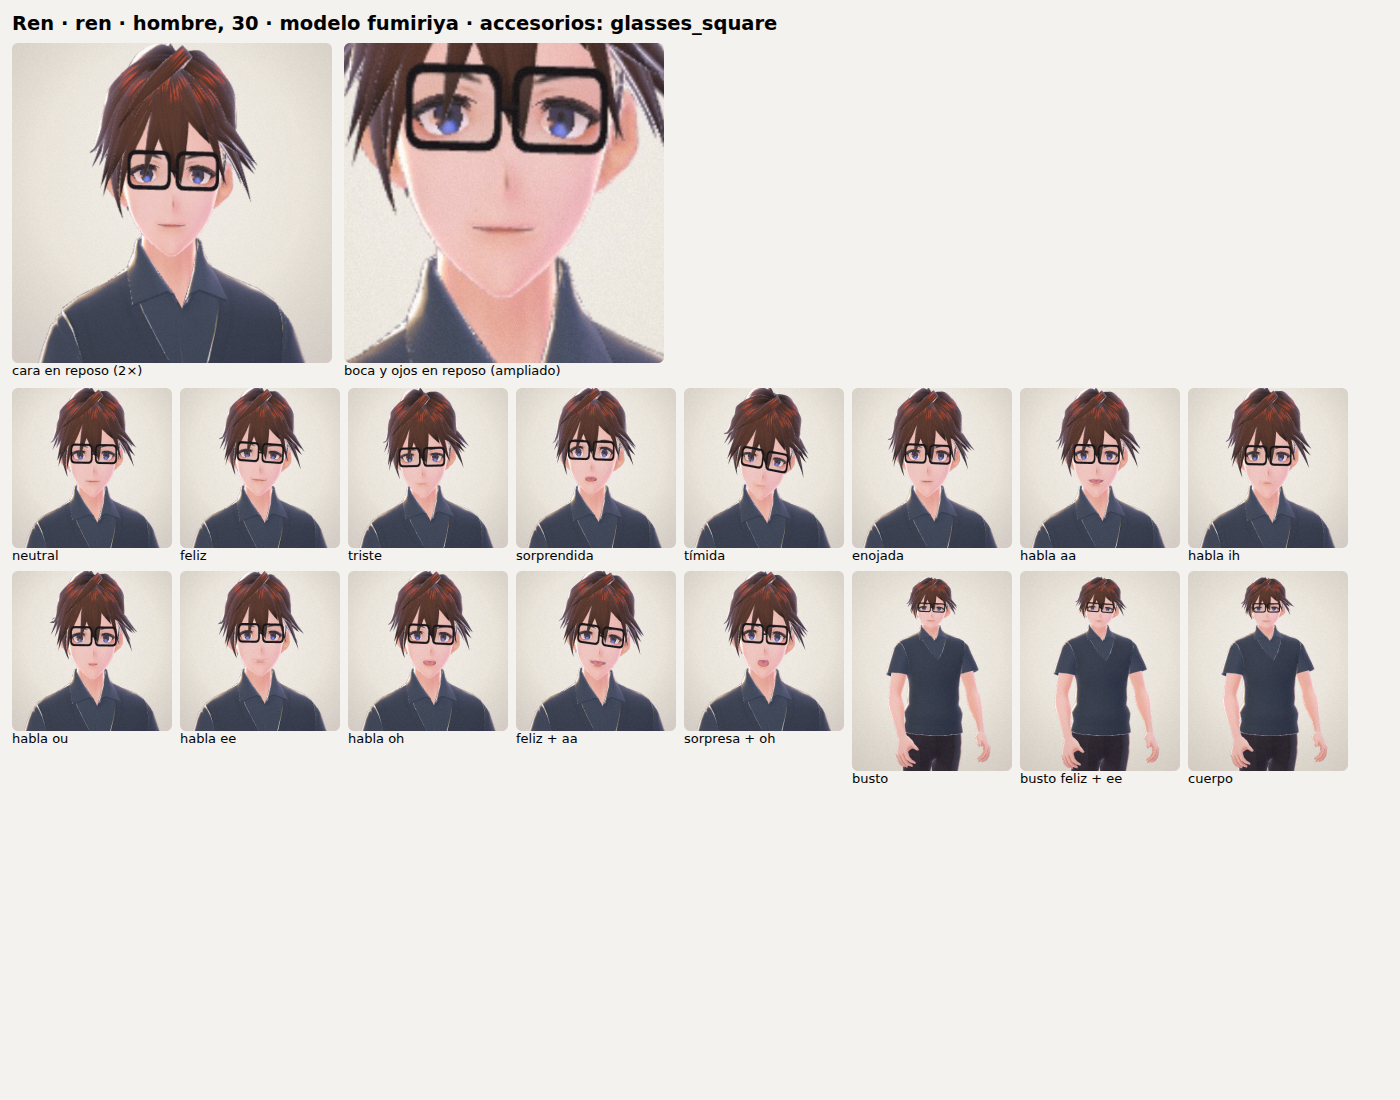
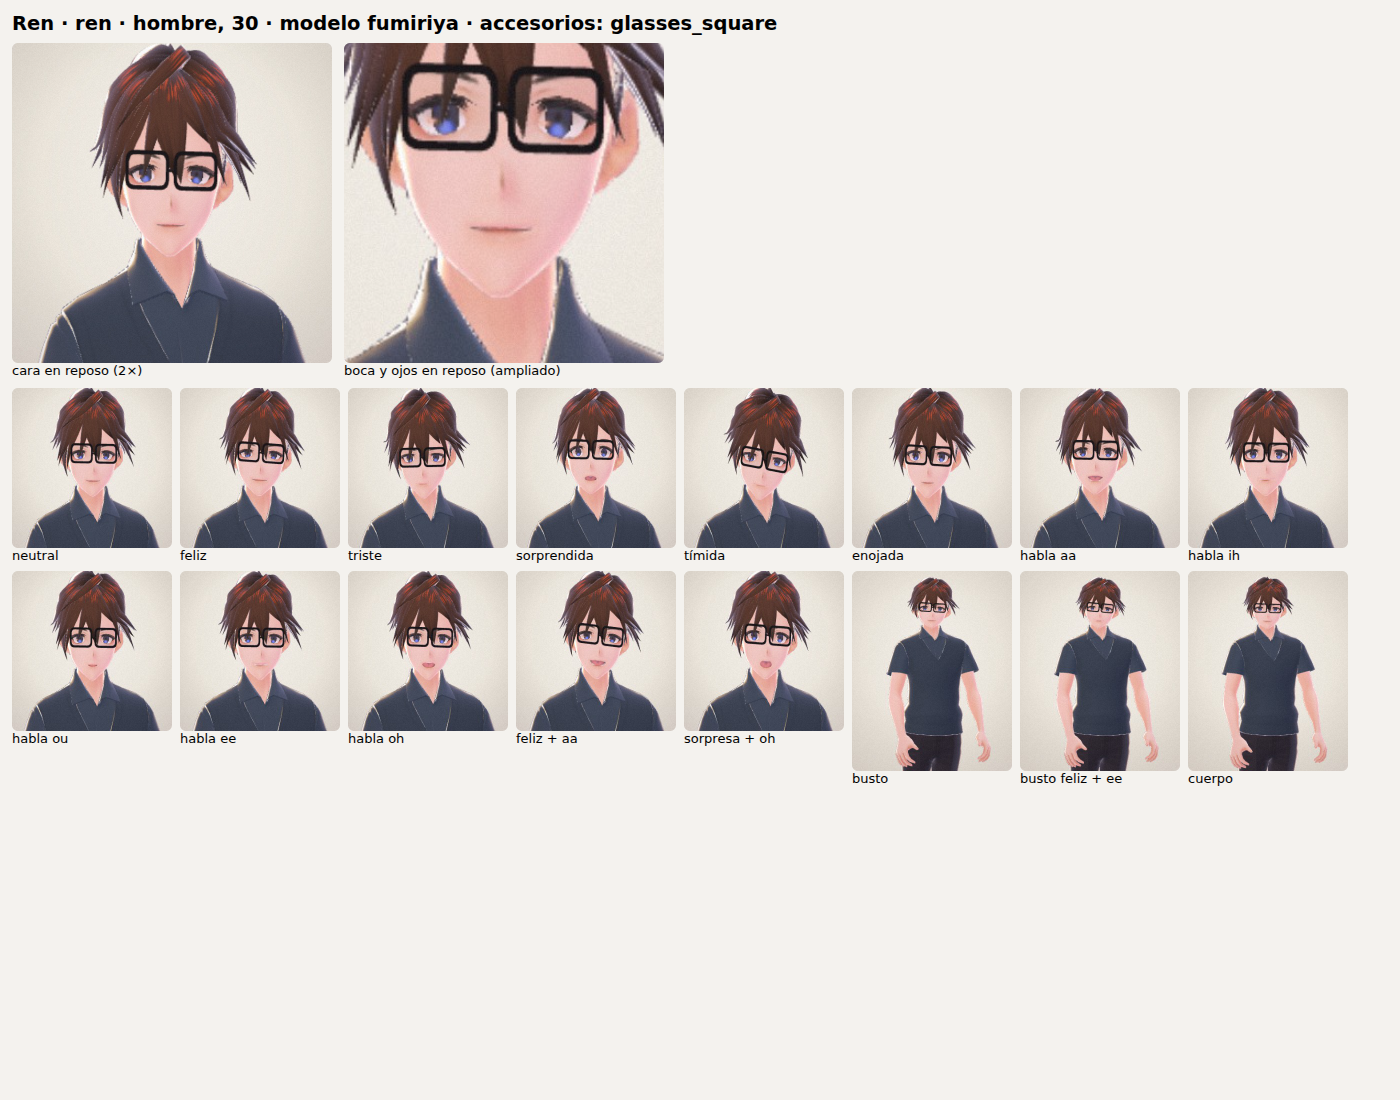
WP-10: rangos jóvenes diferenciados, barba en mandíbula, habla por edad más concreta; QA aprobada
Revisión independiente final: 12/12 personajes aprobados (boca cerrada en reposo, ojos y
edad). 18–22 con iris y cabeza algo mayores, 23–27 con párpado y sombreado leves; sombra
de barba neutra a lo largo de la mandíbula; prompt por edad con rasgos concretos (ritmo,
vocabulario, referencias vividas), una sola fuente en el servidor.

Claude-Session: https://claude.ai/code/session_0188cjAJLeq8GTW6oDs1W4kc

diff --git a/src/lib/character/ageRanges.ts b/src/lib/character/ageRanges.ts
@@ -9,6 +9,8 @@ import type { CharacterLook } from './types';
  *
  * El rostro lo dibuja el escenario 3D (avatar-stage/stage.html, AGE_FACE) a partir de
  * `look.age`: párpado, iris, ojos "naturales", tamaño de cabeza y sombreado de la cara.
+ * La forma de hablar por rango está en el prompt del servidor
+ * (supabase/functions/_shared/systemPrompts.tsx, ageSpeech) y la voz automática en pickVoice.
  */
 export type AgeRangeId = '18-22' | '23-27' | '28-34' | '35+';
 
@@ -35,8 +37,6 @@ export interface AgeRange {
   makeup: { blushMax: number; lip: string | null; eyeshadow: string | null };
   /** Voces adecuadas (ids de VOICES); la primera es la automática. */
   voices: { female: string[]; male: string[] };
-  /** Cómo habla (va al prompt del personaje). */
-  speech: string;
 }
 
 const V = {
@@ -69,14 +69,13 @@ export const AGE_RANGES: AgeRange[] = [
     label: { es: '18–22 años', en: '18–22' },
     short: '18–22',
     typical: 21,
-    face: { lid: 0, iris: 1, head: 1.02, contour: 0 },
+    face: { lid: 0, iris: 1.03, head: 1.03, contour: 0 },
     bodiesDenied: [],
     hairDenied: [],
     accessoriesDenied: [],
     plainOutfit: false,
     makeup: { blushMax: 1, lip: null, eyeshadow: null },
     voices: { female: [V.sarah, V.laura, V.jessica, V.lily], male: [V.liam, V.chris, V.will, V.eric] },
-    speech: 'Hablas como alguien de entre 18 y 22 años: fresco y espontáneo, con expresiones actuales, pero sin sonar infantil.',
   },
   {
     id: '23-27',
@@ -85,14 +84,13 @@ export const AGE_RANGES: AgeRange[] = [
     label: { es: '23–27 años', en: '23–27' },
     short: '23–27',
     typical: 25,
-    face: { lid: 0.07, iris: 0.97, head: 1, contour: 0 },
+    face: { lid: 0.1, iris: 0.95, head: 1, contour: 0.25 },
     bodiesDenied: [],
     hairDenied: [],
     accessoriesDenied: [],
     plainOutfit: false,
     makeup: { blushMax: 0.5, lip: null, eyeshadow: null },
     voices: { female: [V.sarah, V.jessica, V.alice, V.laura, V.lily], male: [V.liam, V.will, V.eric, V.chris, V.callum] },
-    speech: 'Hablas como alguien de entre 23 y 27 años: natural y seguro, cercano, con algo de humor.',
   },
   {
     id: '28-34',
@@ -109,7 +107,6 @@ export const AGE_RANGES: AgeRange[] = [
     plainOutfit: true,
     makeup: { blushMax: 0.2, lip: '#B0646C', eyeshadow: '#B79A9A' },
     voices: { female: [V.alice, V.lily, V.matilda, V.jessica], male: [V.eric, V.callum, V.brian, V.george, V.will] },
-    speech: 'Hablas como alguien de entre 28 y 34 años: con aplomo y las cosas claras, menos jerga, una calidez más asentada.',
   },
   {
     id: '35+',
@@ -127,7 +124,6 @@ export const AGE_RANGES: AgeRange[] = [
     plainOutfit: true,
     makeup: { blushMax: 0.1, lip: '#A0525E', eyeshadow: '#A88A8C' },
     voices: { female: [V.matilda, V.alice, V.lily], male: [V.brian, V.george, V.daniel, V.callum] },
-    speech: 'Hablas como alguien de 35 años o más: maduro y sereno, con experiencia de vida; vocabulario cuidado y nada de jerga juvenil.',
   },
 ];
 

diff --git a/avatar-stage/stage.html b/avatar-stage/stage.html
@@ -401,7 +401,7 @@ function cleanMouth(g, W, H) {
  * fondo transparente; cada mitad se encoge alrededor de su propio centro.
  */
 function shrinkEyes(k) {
-  if (k >= 0.999) return null;
+  if (Math.abs(k - 1) < 0.001) return null;
   return (g, W, H) => {
     const copy = document.createElement('canvas'); copy.width = W; copy.height = H;
     copy.getContext('2d').drawImage(g.canvas, 0, 0);
@@ -440,8 +440,9 @@ function paintFace(look) {
     if (contour) for (const cx of [0.25, 0.75]) soft(cx, 0.72, 0.075, 0.11, '#B88270', 0.3 * contour, 'multiply');
     // hombres de 35+: sombra de barba muy leve en barbilla y mandíbula
     if (ageFace(look).stubble && MALE_BODIES.has(look.model)) {
-      soft(0.5, 0.81, 0.1, 0.045, '#8C8496', 0.32, 'multiply');
-      for (const cx of [0.36, 0.64]) soft(cx, 0.76, 0.06, 0.06, '#8C8496', 0.22, 'multiply');
+      // a lo largo de la mandíbula, no alrededor de la boca; tono gris neutro (no verdoso)
+      for (const cx of [0.3, 0.7]) soft(cx, 0.8, 0.075, 0.05, '#9A9090', 0.22, 'multiply');
+      soft(0.5, 0.855, 0.09, 0.03, '#9A9090', 0.24, 'multiply');
     }
     if (look.eyeshadow) for (const cx of [0.352, 0.662]) soft(cx, 0.527, 0.09, 0.045, look.eyeshadow, 0.85, 'multiply');
     if (blush) for (const cx of [0.315, 0.688]) soft(cx, 0.655, 0.075, 0.045, '#F07C98', 0.5 * blush);
@@ -823,8 +824,8 @@ async function load(look, base) {
  * pequeños (el iris grande es lo que más aniña una cara anime).
  */
 const AGE_FACE = {
-  '18-22': { lid: 0, natural: 0, head: 1.02, contour: 0, iris: 1, stubble: 0 },
-  '23-27': { lid: 0.07, natural: 0.15, head: 1, contour: 0, iris: 0.97, stubble: 0 },
+  '18-22': { lid: 0, natural: 0, head: 1.03, contour: 0, iris: 1.03, stubble: 0 },
+  '23-27': { lid: 0.1, natural: 0.25, head: 1, contour: 0.25, iris: 0.95, stubble: 0 },
   '28-34': { lid: 0.2, natural: 0.55, head: 0.96, contour: 0.55, iris: 0.9, stubble: 0 },
   '35+': { lid: 0.36, natural: 1, head: 0.93, contour: 1, iris: 0.86, stubble: 1 },
 };

diff --git a/src/lib/avatarStageHtml.ts b/src/lib/avatarStageHtml.ts
@@ -402,7 +402,7 @@ function cleanMouth(g, W, H) {
  * fondo transparente; cada mitad se encoge alrededor de su propio centro.
  */
 function shrinkEyes(k) {
-  if (k >= 0.999) return null;
+  if (Math.abs(k - 1) < 0.001) return null;
   return (g, W, H) => {
     const copy = document.createElement('canvas'); copy.width = W; copy.height = H;
     copy.getContext('2d').drawImage(g.canvas, 0, 0);
@@ -441,8 +441,9 @@ function paintFace(look) {
     if (contour) for (const cx of [0.25, 0.75]) soft(cx, 0.72, 0.075, 0.11, '#B88270', 0.3 * contour, 'multiply');
     // hombres de 35+: sombra de barba muy leve en barbilla y mandíbula
     if (ageFace(look).stubble && MALE_BODIES.has(look.model)) {
-      soft(0.5, 0.81, 0.1, 0.045, '#8C8496', 0.32, 'multiply');
-      for (const cx of [0.36, 0.64]) soft(cx, 0.76, 0.06, 0.06, '#8C8496', 0.22, 'multiply');
+      // a lo largo de la mandíbula, no alrededor de la boca; tono gris neutro (no verdoso)
+      for (const cx of [0.3, 0.7]) soft(cx, 0.8, 0.075, 0.05, '#9A9090', 0.22, 'multiply');
+      soft(0.5, 0.855, 0.09, 0.03, '#9A9090', 0.24, 'multiply');
     }
     if (look.eyeshadow) for (const cx of [0.352, 0.662]) soft(cx, 0.527, 0.09, 0.045, look.eyeshadow, 0.85, 'multiply');
     if (blush) for (const cx of [0.315, 0.688]) soft(cx, 0.655, 0.075, 0.045, '#F07C98', 0.5 * blush);
@@ -824,8 +825,8 @@ async function load(look, base) {
  * pequeños (el iris grande es lo que más aniña una cara anime).
  */
 const AGE_FACE = {
-  '18-22': { lid: 0, natural: 0, head: 1.02, contour: 0, iris: 1, stubble: 0 },
-  '23-27': { lid: 0.07, natural: 0.15, head: 1, contour: 0, iris: 0.97, stubble: 0 },
+  '18-22': { lid: 0, natural: 0, head: 1.03, contour: 0, iris: 1.03, stubble: 0 },
+  '23-27': { lid: 0.1, natural: 0.25, head: 1, contour: 0.25, iris: 0.95, stubble: 0 },
   '28-34': { lid: 0.2, natural: 0.55, head: 0.96, contour: 0.55, iris: 0.9, stubble: 0 },
   '35+': { lid: 0.36, natural: 1, head: 0.93, contour: 1, iris: 0.86, stubble: 1 },
 };

diff --git a/supabase/functions/_shared/systemPrompts.tsx b/supabase/functions/_shared/systemPrompts.tsx
@@ -62,10 +62,13 @@ Si la situación dice quién eres para la persona, sé exactamente eso. Si algo 
  */
 /** Forma de hablar según el rango de edad (WP-10; misma tabla que src/lib/character/ageRanges.ts). */
 function ageSpeech(age: number): string {
-  if (age <= 22) return 'Hablas como alguien de entre 18 y 22 años: fresco y espontáneo, con expresiones actuales, pero sin sonar infantil.';
-  if (age <= 27) return 'Hablas como alguien de entre 23 y 27 años: natural y seguro, cercano, con algo de humor.';
-  if (age <= 34) return 'Hablas como alguien de entre 28 y 34 años: con aplomo y las cosas claras, menos jerga, una calidez más asentada.';
-  return 'Hablas como alguien de 35 años o más: maduro y sereno, con experiencia de vida; vocabulario cuidado y nada de jerga juvenil.';
+  if (age <= 22)
+    return 'Tu edad se nota al hablar (18–22 años): fresco y espontáneo, ritmo rápido, alguna expresión actual; tus referencias son la carrera, los primeros trabajos, compartir piso. Nunca suenas infantil.';
+  if (age <= 27)
+    return 'Tu edad se nota al hablar (23–27 años): natural y seguro, con humor; tus referencias son el trabajo, tu ciudad, planes con amistades, la primera vida independiente.';
+  if (age <= 34)
+    return 'Tu edad se nota al hablar (28–34 años): con aplomo; frases completas, poca jerga, menos exclamaciones; sabes lo que quieres y lo dices claro; tus referencias son una carrera asentada, tu casa, viajes y relaciones pasadas que te enseñaron algo.';
+  return 'Tu edad se nota al hablar (35 años o más): sereno y con experiencia; ritmo pausado, vocabulario cuidado, cero jerga juvenil y casi sin exclamaciones; hablas desde lo vivido (años de oficio, decisiones tomadas, lo que aprendiste con el tiempo) con calma, ironía suave y seguridad.';
 }
 
 export function buildCompanionSystemPrompt({ avatar, userName, language, memoryEnabled }: PromptContext): string {
